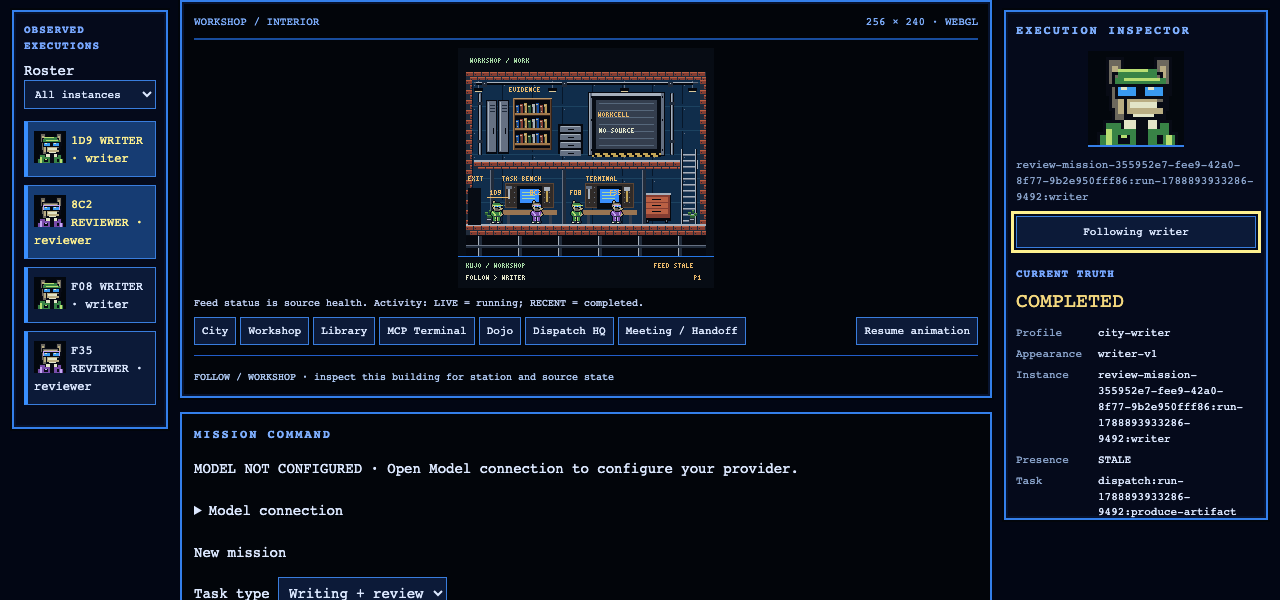
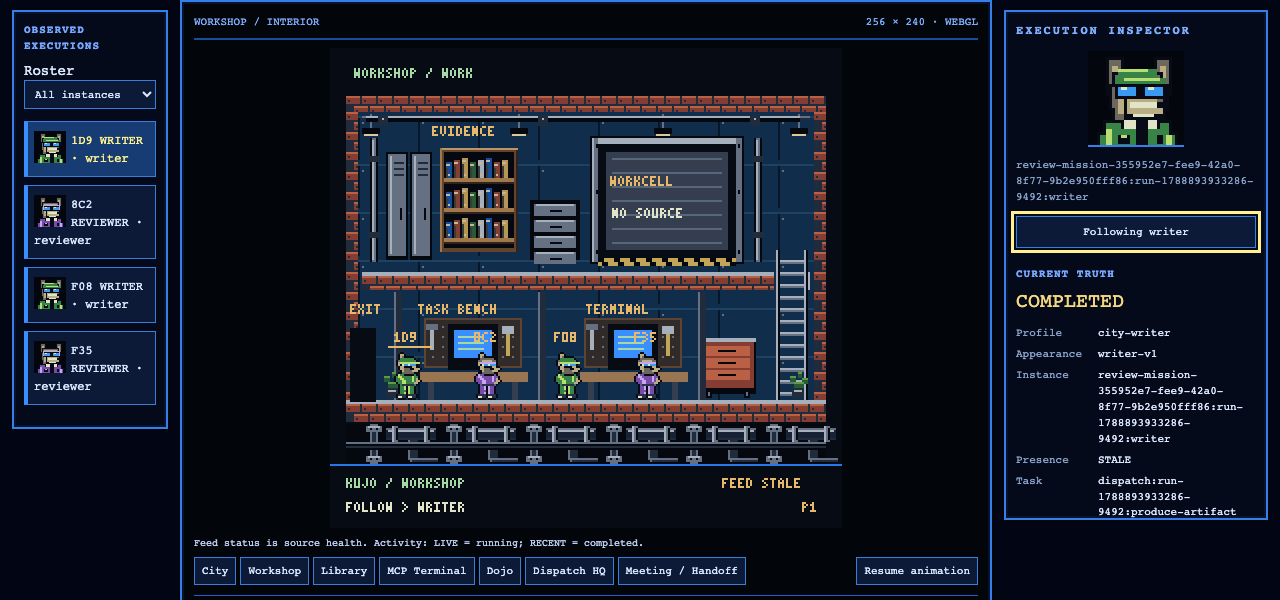
Give the game more viewport space while preserving narrow layouts

diff --git a/scripts/follow-viewport-proof.ts b/scripts/follow-viewport-proof.ts
@@ -25,7 +25,7 @@ try {
     headless: true,
     executablePath: await localChromiumPath(),
   });
-  for (const width of [1280, 320]) {
+  for (const width of [320, 768, 1024, 1280, 1920]) {
     const context = await browser.newContext({
       viewport: { width, height: 600 },
       reducedMotion: "reduce",
@@ -54,6 +54,13 @@ try {
     await page.goto("http://127.0.0.1:18885");
     await page.waitForSelector("#roster button");
     await page.locator("#roster button").first().click();
+    // Selection now enables Follow. Inspect the city to explicitly stop it;
+    // do not rely on completed-run timing to turn this toggle off for us.
+    await page.locator('[data-scene="city"]').click();
+    assert.equal(
+      await page.evaluate(() => (window as any).agentCity.follow),
+      null,
+    );
     const before = await page.evaluate(() => ({
       selected: (window as any).agentCity.selected,
       truth: JSON.stringify((window as any).agentCity.truth),
@@ -74,6 +81,13 @@ try {
       selected: (window as any).agentCity.selected,
       truth: JSON.stringify((window as any).agentCity.truth),
       overflow: document.documentElement.scrollWidth > innerWidth,
+      canvasWidth: document
+        .querySelector("#canvas canvas")!
+        .getBoundingClientRect().width,
+      canvasHeight: document
+        .querySelector("#canvas canvas")!
+        .getBoundingClientRect().height,
+      availableWidth: document.querySelector("#canvas")!.clientWidth,
     }));
     console.log(
       JSON.stringify({
@@ -89,6 +103,28 @@ try {
     assert.equal(before.selected, after.selected);
     assert.equal(before.truth, after.truth);
     assert.equal(after.overflow, false);
+    assert.equal(
+      after.canvasWidth,
+      256 *
+        Math.max(
+          1,
+          Math.min(
+            3,
+            Math.floor(after.availableWidth / 256),
+            Math.max(1, Math.floor((600 - 80) / 240)),
+          ),
+        ),
+    );
+    assert.equal(after.canvasHeight / 240, after.canvasWidth / 256);
+    assert(
+      after.canvasTop + after.canvasHeight <= 600,
+      "Full game must fit after Follow",
+    );
+    if (width >= 1024)
+      assert(
+        after.canvasWidth >= 512,
+        "Desktop world should occupy at least 2x logical size",
+      );
     assert.deepEqual(errors, []);
     await page.screenshot({ path: out + "/width-" + width + ".png" });
     cases.push({
@@ -99,6 +135,9 @@ try {
       startedOffscreen: offscreen,
       worldTop: after.top,
       canvasTop: after.canvasTop,
+      canvasWidth: after.canvasWidth,
+      canvasHeight: after.canvasHeight,
+      availableWidth: after.availableWidth,
       selectedIdentityUnchanged: true,
       truthUnchanged: true,
       overflow: after.overflow,

diff --git a/apps/web/main.ts b/apps/web/main.ts
@@ -122,15 +122,17 @@ try {
     rendererReady = true;
   });
   let resizeFrame = 0;
-  new ResizeObserver(() => {
+  const resizeCanvas = () => {
     cancelAnimationFrame(resizeFrame);
     resizeFrame = requestAnimationFrame(() => {
       const scale = Math.max(
         1,
+        // Reserve only the compact world heading. DOM details can scroll;
+        // keep the entire game visible after Follow, with integer pixels.
         Math.min(
           3,
           Math.floor($("#canvas").clientWidth / 256),
-          Math.max(1, Math.floor((innerHeight - 420) / 240)),
+          Math.max(1, Math.floor((innerHeight - 80) / 240)),
         ),
       );
       const canvas = $("#canvas canvas");
@@ -139,7 +141,9 @@ try {
       if (canvas.style.width !== width) canvas.style.width = width;
       if (canvas.style.height !== height) canvas.style.height = height;
     });
-  }).observe($("#canvas"));
+  };
+  new ResizeObserver(resizeCanvas).observe($("#canvas"));
+  window.addEventListener("resize", resizeCanvas);
 } catch {
   $("#canvas").textContent =
     "Rendering disabled or unavailable. Current truth and evidence remain available below.";

diff --git a/apps/web/style.css b/apps/web/style.css
@@ -761,3 +761,9 @@ header h1:before {
 [hidden] {
   display: none !important;
 }
+
+/* Native selects must fit the narrow Mission Command column. */
+.mission-panel select {
+  max-width: 100%;
+  min-width: 0;
+}

diff --git a/evidence/follow-viewport/README.md b/evidence/follow-viewport/README.md
@@ -1,3 +1,27 @@
+# Current viewport sizing — 2026-10-07
+
+The world no longer reserves420px of browser height for DOM panels. It reserves
+80px for its compact heading and uses the largest1x/2x/3x integer scale that fits
+the column and remaining height. Window resize also recalculates the scale.
+Detailed panels remain scrollable. Mission Command native selects are constrained
+to their panel width, fixing a measured1px overflow at320px.
+
+Current proof.json and screenshots cover320/768/1024/1280/1920px widths at600px
+height. Canvas is256×240 on320px and512×480 elsewhere. Every case verifies the
+entire canvas fits after keyboard Follow, world was offscreen beforehand, no
+horizontal overflow, no page errors, and unchanged serialized truth/selection.
+Reduced motion is enabled. Desktop and narrow screenshots visually inspected.
+Typecheck and production build pass. Command: `npx tsx scripts/follow-viewport-proof.ts`.
+
+The harness explicitly stops automatic Follow by inspecting City before testing
+keyboard activation; it previously depended on completed-run timing and sometimes
+toggled Follow off instead. A width-only prototype clipped the canvas on short
+windows and was replaced before acceptance. No runtime semantics or source work
+changed. This improves presentation size; it does not approve full reference
+fidelity, browser certification or release readiness.
+
+## Historical original Follow check
+
 # Follow reveals the world
 
 The real writing screenshots exposed a usability gap: Follow changed the camera while Mission Command remained scrolled below the canvas. Enabling Follow now instantly scrolls the world into view. Disabling Follow and passive observations do not cause scrolling. The action does not create movement, change execution identity or alter runtime truth.

diff --git a/RELEASE-CHECKLIST.md b/RELEASE-CHECKLIST.md
@@ -77,3 +77,8 @@ visible tab cycle, truth ingestion while hidden, paused animation, collapsed
 backlog and retained selected identity. Release assessment now consumes/asserts
 that evidence. Long throttling, OS sleep/tab discard and live-source suspension
 remain outside this controlled1.2second test. See evidence/browser-visibility.
+
+Viewport checkpoint: full canvas now scales2x in600px-high desktop windows,
+rather than reserving420px for surrounding panels. Five-width keyboard/reduced-
+motion proof passes with full canvas visible, retained truth/identity and zero
+horizontal overflow, including320px. Reference-art acceptance remains open.
